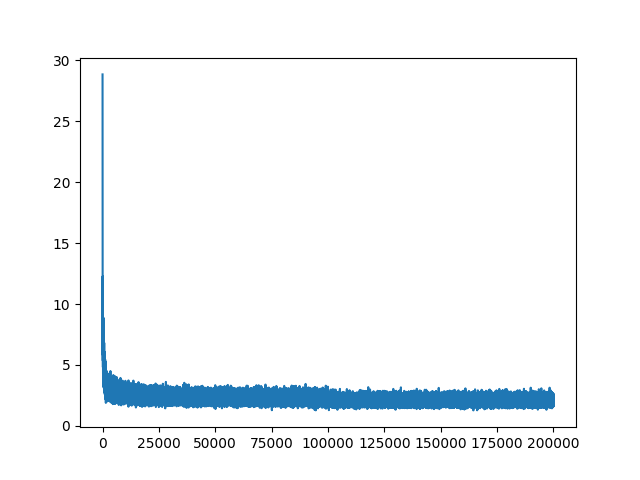
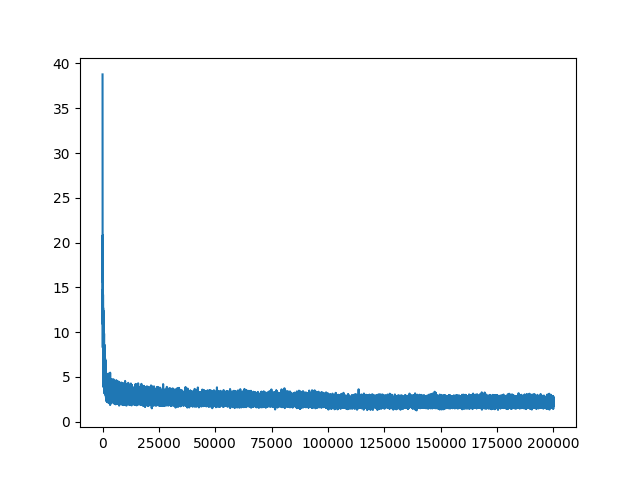
completed test run for this char level autoreg model

diff --git a/engine.py b/engine.py
@@ -27,6 +27,7 @@ EPOCHS = 200000
 LEARNING_RATE = 0.1
 HIDDEN_DIM = 200
 EMBEDDING_DIM = 10
+VOCAB_SIZE = None
 MINOR_DEBUG = True
 MAJOR_DEBUG = False
 random.seed(42)
@@ -55,14 +56,26 @@ def construct_vocab(corpus):
     unique_chars = set(one_big_blob)
     list_unique_chars = list(unique_chars)
     vocab = sorted(list_unique_chars)
-    return vocab
+    VOCAB_SIZE = len(vocab)
+    if MINOR_DEBUG:
+        print("Vocabulary: ", vocab)
+    return vocab, VOCAB_SIZE
 
 def construct_mapping(vocab):
-    element_to_index = {element:index+1 for index,element in enumerate(vocab)}
-    # add the special token '.'
-    element_to_index['.'] = 0 
+    element_to_index = {element:index for index,element in enumerate(vocab)}
+    # Remove space if it exists in the original vocab
+    if ' ' in element_to_index:
+        del element_to_index[' ']
+    # add space as the special token at the end of the vocab
+    element_to_index[' '] = len(element_to_index) 
     # index_to_element 
     index_to_element = {value:key for key,value in element_to_index.items()}
+    if MINOR_DEBUG:
+        print("Vocabulary size:", len(vocab))
+        print("Number of indices:", len(element_to_index))
+        print("First few mappings:", dict(list(element_to_index.items())[:5]))
+        print("First few reverse mappings:", dict(list(index_to_element.items())[:5]))
+        
     return element_to_index, index_to_element
     
 def construct_dataset(corpus: List[str], index_to_element, element_to_index):
@@ -70,7 +83,7 @@ def construct_dataset(corpus: List[str], index_to_element, element_to_index):
     # get each word (Corpus is a list of words: view the get_data function for more info) 
     for word in corpus:
         context = [0] * CONTEXT_LENGTH
-        for char in word+'.':
+        for char in word+' ':
             X.append(context) # 0 0 0 
             Y.append(element_to_index[char])
             if MAJOR_DEBUG:
@@ -120,17 +133,17 @@ def split(corpus, index_to_element, element_to_index):
     Xte, Yte = construct_dataset(corpus[n2:], index_to_element, element_to_index)
     return Xtr, Ytr, Xdev, Ydev, Xte, Yte
 
-def gen_model_params(embedding_dim: int, hidden_dim: int, context_length: int):
+def gen_model_params(embedding_dim: int, hidden_dim: int, context_length: int, vocab_size: int):
     '''
     Model Architecture: A Neural Probabilistic Language Model 
     Authors: Yoshua Bengio et al
     '''
     g = torch.Generator().manual_seed(2147483647)
-    C = torch.randn((27, embedding_dim), generator=g)
+    C = torch.randn((vocab_size+1, embedding_dim), generator=g)
     W1  = torch.randn((embedding_dim*context_length, hidden_dim), generator=g)
     b1 = torch.randn((hidden_dim), generator=g)
-    W2 = torch.randn((hidden_dim, 27), generator=g)
-    b2 = torch.randn((27), generator=g)
+    W2 = torch.randn((hidden_dim, vocab_size+1), generator=g)
+    b2 = torch.randn((vocab_size+1), generator=g)
     parameters = [C, W1, b1, W2, b2]
     return parameters
 
@@ -198,17 +211,26 @@ def sample_from_model(parameters, context_length, num_generation, index_to_eleme
             logits = h @ W2 + b2
             probs = F.softmax(logits, dim=1)
             next_char_index = torch.multinomial(probs, num_samples=1).item()
+            
+            if next_char_index not in index_to_element:
+                continue
+            
             context = context[1:] + [next_char_index]
             generated_text.append(next_char_index)
-            if next_char_index == 0:
+            if next_char_index == len(index_to_element) - 1:
                 break
-        print(''.join(index_to_element[i] for i in generated_text))
+            
+        valid_chars = [index_to_element[i] for i in generated_text if i in index_to_element]
+        print(''.join(valid_chars))
 
 ########## Get the data #########
-corpus = get_data("https://raw.githubusercontent.com/karpathy/makemore/master/names.txt", "names.txt")
+corpus = get_data("https://raw.githubusercontent.com/danielmiessler/SecLists/refs/heads/master/Passwords/Common-Credentials/10-million-password-list-top-10000.txt", "passwords.txt")
 
 ######### Construct a vocabulary for the model using the corpus #########
-vocab = construct_vocab(corpus)
+vocab, VOCAB_SIZE = construct_vocab(corpus)
+
+if MINOR_DEBUG:
+    print(VOCAB_SIZE)
 
 element_to_index, index_to_element = construct_mapping(vocab)
 
@@ -224,7 +246,7 @@ Xtr, Ytr, Xdev, Ydev, Xte, Yte = split(corpus, index_to_element, element_to_inde
 embedding_dim = EMBEDDING_DIM
 hidden_dim = HIDDEN_DIM
 context_length = CONTEXT_LENGTH
-parameters = gen_model_params(embedding_dim=embedding_dim, hidden_dim=hidden_dim, context_length=context_length)
+parameters = gen_model_params(embedding_dim=embedding_dim, hidden_dim=hidden_dim, context_length=context_length, vocab_size=VOCAB_SIZE)
 
 if MINOR_DEBUG:
     print(p.nelement() for p in parameters)

diff --git a/README.md b/README.md
@@ -1,14 +1,11 @@
 # genflow
-An auto-regressive video generation model 
+An auto-regressive character level language model  
 
-* resize image to a lower resolution 
-* convert to gray scale 
-* combine dataset from a number of videos into one dataset. 
-* vocabulary can be value of each pixel value the model sees 
-[80 , 234 
-             -> for gray scale the pixel value is 0 to 255 -> discretize the pixels into bins  
- 12 , 128]  
+It can help you generate new and unique passwords or tbh anything else you want. Just provide a corpus of .txt file where each line is a training example. 
 
-* range 0-255 discretized into 64 bins and each pixel assigned a particular bin value 
-* at inference i will decode the model output 
-*  Pixels within a frame and across frames are related, unlike independent characters in a sequence.
+# Usage 
+
+```
+python engine.py
+```
+
